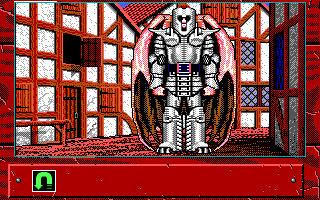
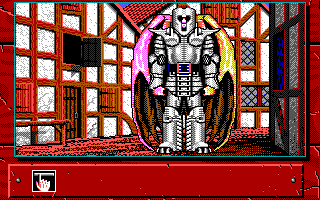
fix(ui): 資料頁那兩頁的框、底圖與圖示列，隊伍頁對到允許區外零差異
四處都由原版對拍逼出來，每一處都有反組譯佐證：

**一、每個框都自帶投影。** `sub_1BA9D` 是三件事的複合——`sub_1B779` 填內部、
`sub_1B6DC` 畫框、`sub_1B7E9` **投影**。投影是右邊與下面各一條四像素寬的黑帶
（`x1+4…x2+4` × `y2+1…y2+4`），與 `town.Shadow` 的 4／4 一致。兩頁的外框與物品頁
左上那個小框都少了它，背景磚紋因此透了出來。

**二、`sub_1103F(0)` 是整頁圖，不是把框內填黑。** 它走「圖 0、寬 0x28 個 byte 欄、
高 0xC8」那一條分支，蓋掉整個旅店畫面連頂端的隊員格都不留。remake 原本填黑，
所以框內靠右那一條（背景只有 288 px 寬）與頂端的隊員格都對不上。

**三、隊伍立繪那一頁的圖示列縮成一格 SPACEBAR。** 那一頁不是選單，`sub_18D61`
收尾就是 `sub_144C3`。

隊伍頁因此從 1,807 個像素差異降到 52 個，而那 52 個全部落在原版的滑鼠游標裡
——**允許區外零差異**，收據 `receipt-town-sheet-party.json`。

物品頁從 2,396 降到 744（1.16%），剩下的是**武器那一層**：`sub_18F3A` 的七層裡有
一層把武器橫放在畫面左下角（`word_3499E = 2` 個 byte 欄、`word_349A0 = 0x99 −` 高，
尺寸查 `0x402`／`0x5F2`），而 remake 只把武器畫在角色手上。Theodoric 的 `+0x190`
那一格是 `Greatsword`，原版就把它橫放在腳邊——RE-126 當時判斷「組出來的檔名在原版
資料裡不存在」，原版畫面推翻了這一項。

Changed region(s): [[0.0625, 0.03, 0.9688, 0.81], [0.0938, 0.84, 0.1875, 0.96], [0.0312, 0.0, 0.1875, 0.03]]

diff --git a/internal/ui/itempage.go b/internal/ui/itempage.go
@@ -23,8 +23,9 @@ func drawItemPage(dst *ebiten.Image, sprites Sprites, small, large *font.Font,
 	// 畫的順序照原版：整頁清掉 → 背景 → 立繪 → 右邊那條窄欄清成黑 → 框與分隔線
 	// → 清單（`sub_1103F(0)`、`(0x21)`／`(0x64)`、`sub_18F3A(0)`、`sub_1B779`、
 	// `sub_1B6DC`、`sub_1BB57`、`sub_196A9`）。
-	fill(dst, l.Frame.X0, l.Frame.Y0, l.Frame.Width(), l.Frame.Height(),
-		town.ColourBoxFill)
+	if err := drawSheetPageFull(dst, sprites); err != nil {
+		return err
+	}
 	if err := drawSheetPageBack(dst, sprites); err != nil {
 		return err
 	}
@@ -45,6 +46,9 @@ func drawItemPage(dst *ebiten.Image, sprites Sprites, small, large *font.Font,
 		town.ColourSheetFrame)
 	fill(dst, l.Divider.X0, l.Divider.Y0,
 		l.Divider.Width(), l.Divider.Height(), town.ColourSheetFrame)
+	// 框畫完投一次影（`sub_1B7E9(0x0F, 2, 0x131, 0x9C, 3)`）：右邊與下面各一條
+	// 四像素寬的黑帶。
+	shadow(dst, l.Frame.X0, l.Frame.Y0, l.Frame.Width(), l.Frame.Height())
 
 	for i, row := range p.Rows {
 		colour := town.ColourListIdle
@@ -61,6 +65,9 @@ func drawItemPage(dst *ebiten.Image, sprites Sprites, small, large *font.Font,
 			town.ColourBoxFill)
 		frame(dst, m.X, m.Y, town.MarkWidth+1, town.MarkHeight+1,
 			town.ColourSheetHeader)
+		// `sub_1BA9D` 是三件事的複合：填內部（`sub_1B779`）、畫框（`sub_1B6DC`）、
+		// **再投影**（`sub_1B7E9`）。用它畫的每一個框都自帶那一圈四像素的黑帶。
+		shadow(dst, m.X, m.Y, town.MarkWidth+1, town.MarkHeight+1)
 		col := m.X/small.Advance() + 1
 		row := m.Y + town.MarkTextTop
 		cell(dst, small, col, row, m.Slot)
@@ -144,11 +151,15 @@ func cellIn(dst *ebiten.Image, f *font.Font, col, row int, s string, c [3]uint8)
 // 再把六個人由後往前貼上去。
 func drawPartyPage(dst *ebiten.Image, sprites Sprites, pieces []portrait.Piece) error {
 	r := town.PartyPageFrame
-	fill(dst, r.X0, r.Y0, r.Width(), r.Height(), town.ColourBoxFill)
+	if err := drawSheetPageFull(dst, sprites); err != nil {
+		return err
+	}
 	if err := drawSheetPageBack(dst, sprites); err != nil {
 		return err
 	}
 	frame(dst, r.X0, r.Y0, r.Width(), r.Height(), town.ColourSheetFrame)
+	// 同物品那一頁：框之後投一次影（`sub_18F21`）。
+	shadow(dst, r.X0, r.Y0, r.Width(), r.Height())
 	for _, piece := range pieces {
 		pic, err := sprites.Get(piece.Archive, piece.Index)
 		if err != nil {
@@ -156,6 +167,17 @@ func drawPartyPage(dst *ebiten.Image, sprites Sprites, pieces []portrait.Piece) 
 		}
 		draw(dst, pic, piece.X*PixelsPerByte, piece.Y)
 	}
+	return nil
+}
+
+// drawSheetPageFull 畫這兩頁最先蓋上去的那一張整頁圖（`sub_1103F(0)`）。它蓋掉
+// 整個旅店畫面，連頂端的隊員格都不留。
+func drawSheetPageFull(dst *ebiten.Image, sprites Sprites) error {
+	pic, err := sprites.Get(town.Background.Archive, town.Background.Index)
+	if err != nil {
+		return err
+	}
+	draw(dst, pic, 0, 0)
 	return nil
 }
 

diff --git a/tools/ida_probe_koltown_mark_box.py b/tools/ida_probe_koltown_mark_box.py
@@ -1,0 +1,79 @@
+#!/usr/bin/env python3
+"""IDA Pro 9.4：物品頁左上那個小框與投影原語（RE-128 對拍用）。
+
+資料頁那兩頁對原版畫面時剩下的差異有結構：小框右邊 `x = 106…109`、下面
+`y = 62…65` 各一條四像素寬的帶，原版是黑的而 remake 讓背景透了出來——同一個
+形狀在整頁的外框上已經證實是 `sub_1B7E9` 的投影。這一支把畫小框那支
+（`sub_16D0B`）、投影原語本身與小框用的那個填色框（`sub_1BA9D`）倒出來，
+確認那兩條帶的來源與偏移量。
+
+  idat -A -S"tools/ida_probe_koltown_mark_box.py OUT.json INPUT.EXE" INPUT.i64
+"""
+
+from __future__ import annotations
+
+import hashlib
+import json
+from pathlib import Path
+
+import ida_auto
+import ida_funcs
+import ida_lines
+import idaapi
+import idautils
+import idc
+
[1 lines of base64/hex data omitted]
+FUNCTIONS = (0x16D0B, 0x1B7E9, 0x1BA9D, 0x18F3A, 0x1C70E, 0x16FA6)
+
+
+def disassembly(ea: int) -> str:
+    return ida_lines.tag_remove(idc.generate_disasm_line(ea, 0) or "")
+
+
+def listing(start: int) -> list[dict]:
+    if ida_funcs.get_func(start) is None:
+        return []
+    return [{"ea": f"0x{ea:x}", "disassembly": disassembly(ea)}
+            for ea in idautils.FuncItems(start)]
+
+
+def summary(start: int) -> dict:
+    f = ida_funcs.get_func(start)
+    if f is None:
+        return {"start_ea": f"0x{start:x}", "note": "沒有函式邊界"}
+    return {
+        "original_name": idc.get_func_name(start),
+        "start_ea": f"0x{start:x}",
+        "end_ea": f"0x{f.end_ea:x}",
+        "instruction_count": len(list(idautils.FuncItems(start))),
+        "callers": sorted({f"0x{ea:x}" for ea in idautils.CodeRefsTo(start, False)}),
+    }
+
+
+def main() -> None:
+    if len(idc.ARGV) != 3:
+        raise RuntimeError("usage: script.py OUT.json INPUT.EXE")
+    out_path, input_path = Path(idc.ARGV[1]), Path(idc.ARGV[2])
+    digest = hashlib.sha256(input_path.read_bytes()).hexdigest()
+    if digest != EXPECTED_SHA256:
+        raise RuntimeError(f"unexpected input SHA-256: {digest}")
+    ida_auto.auto_wait()
+
+    receipt = {
+        "schema": "kol-ida-koltown-mark-box-v1",
+        "ida_version": idaapi.get_kernel_version(),
+        "input_name": input_path.name,
+        "input_sha256": digest,
+        "address_space": "IDA linear effective address for reconstructed unpacked MZ",
+        "note": "探索用輸出：物品頁左上小框與投影原語；尚未鎖定任何斷言。",
+        "functions": {f"0x{ea:x}": summary(ea) for ea in FUNCTIONS},
+        "listings": {f"0x{ea:x}": listing(ea) for ea in FUNCTIONS},
+    }
+    out_path.parent.mkdir(parents=True, exist_ok=True)
+    out_path.write_text(json.dumps(receipt, ensure_ascii=False, indent=2) + "\n",
+                        encoding="utf-8")
+    idc.qexit(0)
+
+
+main()

diff --git a/internal/town/portrait.go b/internal/town/portrait.go
@@ -124,7 +124,9 @@ func (s *Session) OpenPartyPage() {
 		return
 	}
 	s.Inside.PartyPage = pieces
-	s.setInsideIcons([]int{IconUTurn})
+	// 這一頁不是選單，是「看完按一個鍵」——`sub_18D61` 收尾就是 `sub_144C3`，
+	// 圖示列因此縮成一格 SPACEBAR（RE-128 對拍時更正 RE-126）。
+	s.setInsideIcons([]int{IconSpacebar})
 }
 
 // ShowingPartyPage 回報現在是不是停在隊伍立繪那一頁。

diff --git a/docs/verification/remake-parity/README.md b/docs/verification/remake-parity/README.md
@@ -64,6 +64,7 @@ remake 以 Go 1.26.7 ＋ Ebitengine v2.9.9 建置於固定映像
 | `town-train.json`（AWARD 訓練的六個畫面，對 `town-train-run1`） | 6 | 6 |
 | `town-mouth.json`（MOUTH 打字那一格的版面，對 `town-mouth-run1`） | 2 | 2 |
 | `receipt-town-spell-edit.json`（法術編輯器那一整頁，對 `town-spell-edit-run1`） | 2 | 2 |
+| `receipt-town-sheet-party.json`（資料頁上的隊伍立繪，對 `town-sheet-party-run1`） | 2 | 2 |
 | `world.json`（野外地圖畫面，對 `town-leave-run1`） | 4 | 4 |
 | `world-clock.json`（野外時刻推進的兩個取樣點，對 `world-clock-run2`） | 4 | 4 |
 | `world-quest.json`（任務地點的敘述、問句、滿版怪物圖、戰場與主指令列，對 `world-quest-run1`） | 4 | 4 |
